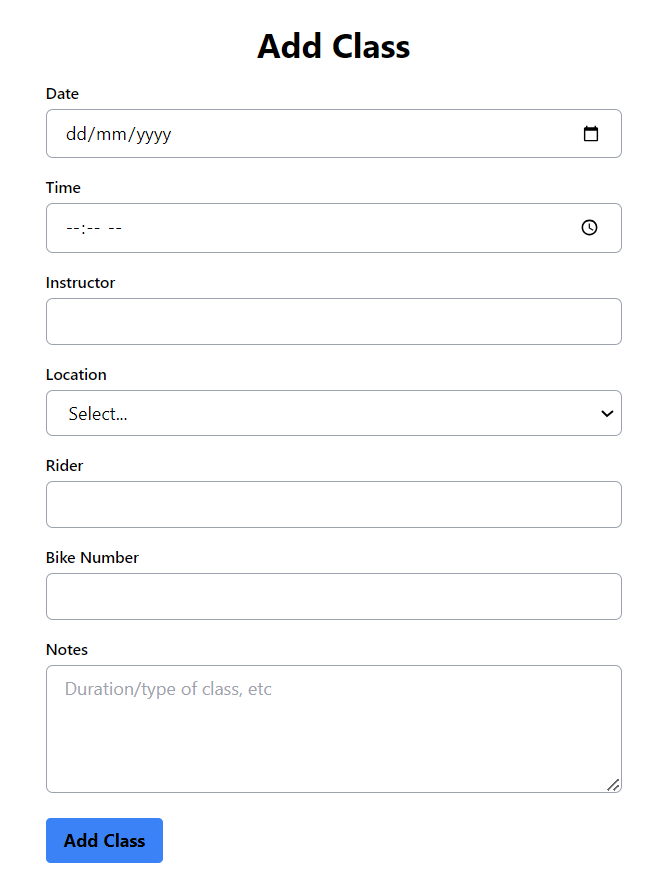
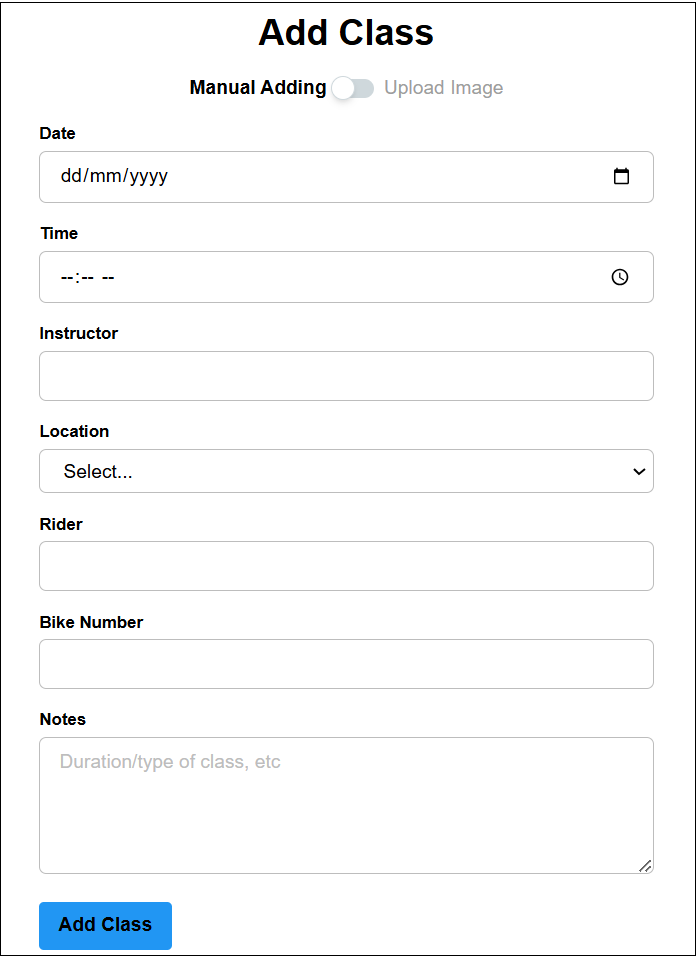
Update README

diff --git a/README.md b/README.md
@@ -84,7 +84,7 @@ Inspired by the hassle of individually asking friends for their schedules, SpinS
 <!-- GETTING STARTED -->
 ## Getting Started
 
-1. Go to the [spinShare website](https://spinshare77.web.app/)
+1. Go to the [SpinShare website](https://spinshare77.web.app/)
 2. Create an account by signing in with Google
 3. Add classes to your schedule
 4. Share them with friends
@@ -99,15 +99,18 @@ Inspired by the hassle of individually asking friends for their schedules, SpinS
 
 ### Home Page
 
-Users are greeted by this page when they visit the SpinShare website. They are able to view the Absolute, Ally, and Revolution schedules for the current week and learn about the main features of SpinShare. Clicking on the "Sign In With Google" button will allow users to login to their account.
+When you visit the SpinShare website, you'll be greeted by this page. Here, you can view the Absolute, Ally, and Revolution schedules for the current week and explore the main features of SpinShare. Simply click the "Sign In With Google" button to log in to your account.
 
 <img src="src/assets/images/spinShare_login.png" alt="SpinShare login" width="600" height=auto>
 
 ### Add Class
 
-This feature offers a clean and intuitive interface where users can easily input details like the class name, instructor, date, time, and location. This user-friendly design ensures that adding a class is a hassle-free experience.
+This feature offers two modes for adding a class.
+- Manual mode: Fill out a simple form with details like the class name, instructor, date, time, and location. 
+- Image upload mode: Quickly add a class by uploading an image of your class bookings. <br> 
 
-<img src="src/assets/images/spinShare_addClass.png" alt="SpinShare Add Class" width="300" height="400">
+<img src="src/assets/images/spinShare_addClass.png" alt="SpinShare Add Class" width="300" height="400" style="margin-right: 20px;">
+<img src="src/assets/images/spinShare_addClass_auto.png" alt="SpinShare Add Class" width="550" height="400">
 
 <p align="right">(<a href="#readme-top">back to top</a>)</p>
 
@@ -118,14 +121,13 @@ This feature offers a clean and intuitive interface where users can easily input
 
 - [x] Schedule displaying classes
 - [x] Add and edit classes
-    - [x] View past and upcoming classes
+- [x] View past and upcoming classes
 - [x] Friend system
     - [x] Send friend requests
     - [x] Add and remove friends
     - [x] View friends' classes in your schedule
     - [ ] Invite friends to join classes
-- [x] Absolute and Ally schedules (updated weekly)
-- [x] Revolution schedule (updated weekly)
+- [x] Absolute, Ally, and Revolution schedules (updated weekly)
 - [x] Add classes to schedule from image (Absolute spin)
 - [ ] Add classes to schedule from image (Other studios)
 
